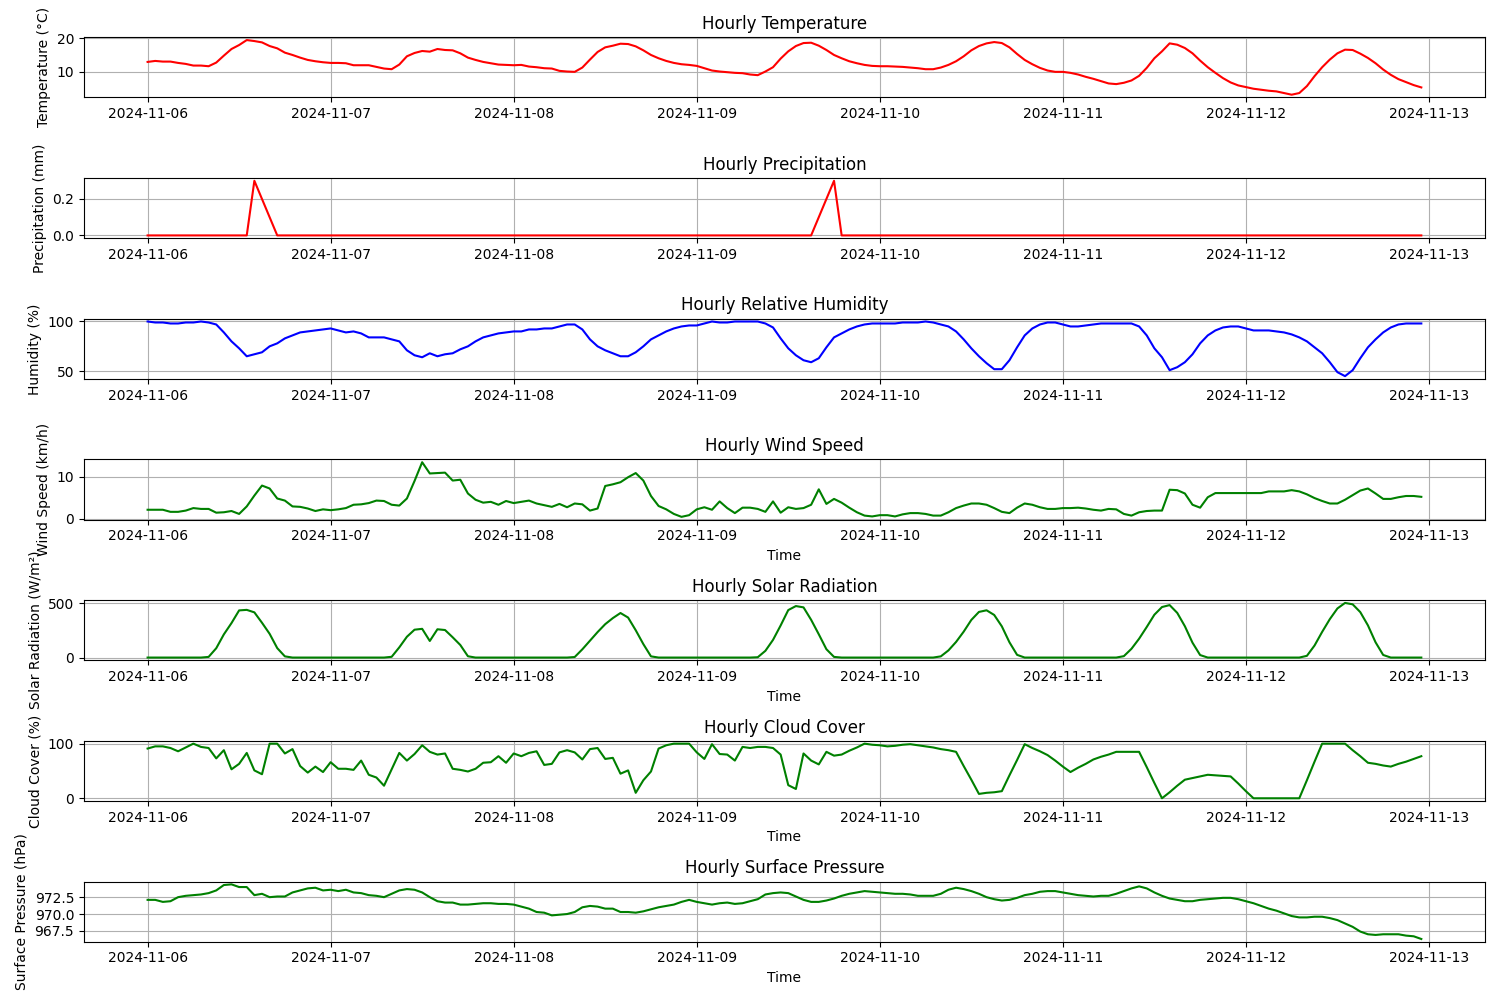
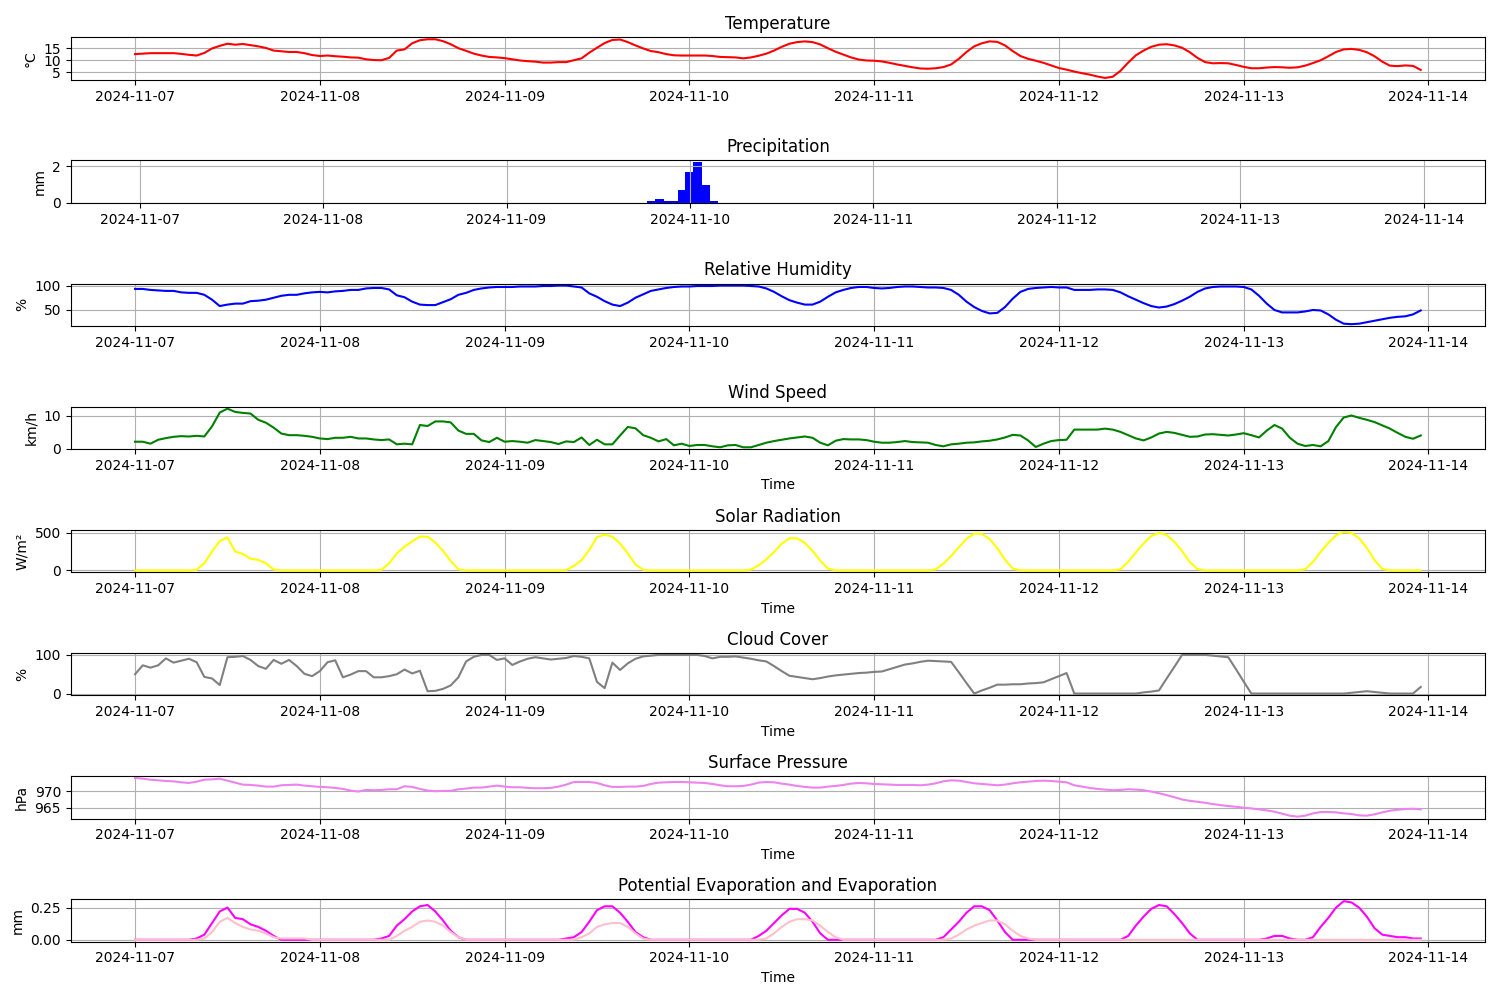
add etp

diff --git a/app.py b/app.py
@@ -10,14 +10,13 @@ import os
 
 app = Flask(__name__)
 
-# Function to fetch and plot weather data
-def fetch_and_plot():
-    # Step 1: Fetch data from the API
+def fetch():
+      # Step 1: Fetch data from the API
     url = "https://api.open-meteo.com/v1/forecast"
     params = {
         "latitude": 41.97,
         "longitude": 2.38,
-        "hourly": "temperature_2m,precipitation,relative_humidity_2m,wind_speed_10m,cloud_cover,surface_pressure,shortwave_radiation",
+        "hourly": "temperature_2m,precipitation,relative_humidity_2m,wind_speed_10m,cloud_cover,surface_pressure,shortwave_radiation,et0_fao_evapotranspiration,evapotranspiration",
         "timezone": "auto"
     }
     response = requests.get(url, params=params)
@@ -32,6 +31,8 @@ def fetch_and_plot():
     cloud_cover = data["hourly"]["cloud_cover"]
     surface_pressure = data["hourly"]["surface_pressure"]
     shortwave_radiation = data["hourly"]["shortwave_radiation"]
+    potential_evaporation = data["hourly"]["et0_fao_evapotranspiration"]
+    evaporation = data["hourly"]["evapotranspiration"]
     
     # Convert to pandas DataFrame
     df = pd.DataFrame({
@@ -42,36 +43,43 @@ def fetch_and_plot():
         "Wind Speed (km/h)": wind_speed,
         "Solar Radiation (W/m²)": shortwave_radiation,
         "Cloud Cover (%)": cloud_cover,
-        "Surface Pressure (hPa)": surface_pressure
+        "Surface Pressure (hPa)": surface_pressure,
+        "Potential Evaporation (mm)": potential_evaporation,
+        "Evaporation (mm)": evaporation
     })
     df.set_index("Time", inplace=True)
+    
+    return df
+
+# Function to fetch and plot weather data
+def plot_data(df):
 
     # Step 3: Plot each variable
     plt.figure(figsize=(15, 10))
 
     # Plot Temperature
-    plt.subplot(7, 1, 1)
+    plt.subplot(8, 1, 1)
     plt.plot(df.index, df["Temperature (°C)"], color="red")
     plt.title("Temperature")
     plt.ylabel("°C")
     plt.grid()
     
     # Plot Precipitation
-    plt.subplot(7, 1, 2)
-    plt.plot(df.index, df["Precipitation (mm)"], color="red")
+    plt.subplot(8, 1, 2)
+    plt.bar(df.index, df["Precipitation (mm)"], width=0.05, color="blue")
     plt.title("Precipitation")
     plt.ylabel("mm")
     plt.grid()
 
     # Plot Relative Humidity
-    plt.subplot(7, 1, 3)
+    plt.subplot(8, 1, 3)
     plt.plot(df.index, df["Relative Humidity (%)"], color="blue")
     plt.title("Relative Humidity")
     plt.ylabel("%")
     plt.grid()
 
     # Plot Wind Speed
-    plt.subplot(7, 1, 4)
+    plt.subplot(8, 1, 4)
     plt.plot(df.index, df["Wind Speed (km/h)"], color="green")
     plt.title("Wind Speed")
     plt.ylabel("km/h")
@@ -79,28 +87,44 @@ def fetch_and_plot():
     plt.grid()
     
     # Plot Solar Radiation
-    plt.subplot(7, 1, 5)
-    plt.plot(df.index, df["Solar Radiation (W/m²)"], color="green")
+    plt.subplot(8, 1, 5)
+    plt.plot(df.index, df["Solar Radiation (W/m²)"], color="yellow")
     plt.title("Solar Radiation")
     plt.ylabel("W/m²")
     plt.xlabel("Time")
     plt.grid()
     
     # Plot Cloud Cover
-    plt.subplot(7, 1, 6)
-    plt.plot(df.index, df["Cloud Cover (%)"], color="green")
+    plt.subplot(8, 1, 6)
+    plt.plot(df.index, df["Cloud Cover (%)"], color="grey")
     plt.title("Cloud Cover")
     plt.ylabel("%")
     plt.xlabel("Time")
     plt.grid()
     
     # Plot Surface Pressure (hPa)
-    plt.subplot(7, 1, 7)
-    plt.plot(df.index, df["Surface Pressure (hPa)"], color="green")
+    plt.subplot(8, 1, 7)
+    plt.plot(df.index, df["Surface Pressure (hPa)"], color="violet")
     plt.title("Surface Pressure")
     plt.ylabel("hPa")
     plt.xlabel("Time")
     plt.grid()
+    
+    # Plot Evaporations (mm)
+    plt.subplot(8, 1, 8)
+    plt.plot(df.index, df["Potential Evaporation (mm)"], color="magenta")
+    plt.plot(df.index, df["Evaporation (mm)"], color="pink")
+    plt.title("Potential Evaporation and Evaporation")
+    plt.ylabel("mm")
+    plt.xlabel("Time")
+    plt.grid()
+    
+    #plt.subplot(9, 1, 9)
+    #plt.plot(df.index, df["Evaporation (mm)"], color="pink")
+    #plt.title("Evaporation")
+    #plt.ylabel("mm")
+    #plt.xlabel("Time")
+    #plt.grid()
 
     # Save plot to static folder
     plt.tight_layout()
@@ -109,7 +133,8 @@ def fetch_and_plot():
     plt.close()
 
 #Run for the first time
-fetch_and_plot()
+df = fetch()
+plot_data(df)
 
 # Schedule the fetch_and_plot function to run every hour
 scheduler = BackgroundScheduler()
@@ -119,17 +144,17 @@ scheduler.start()
 # Route to display the plot
 @app.route("/")
 def index():
-    # Call the function initially to generate the plot
-    fetch_and_plot()
-    return render_template("index.html")
+  # Call the function initially to generate the plot
+  plot_data()
+return render_template("index.html")
 
 @app.teardown_appcontext
 def shutdown_scheduler(exception=None):
-    try:
-        if scheduler.running:
-            scheduler.shutdown()
-    except SchedulerNotRunningError:
-        pass
+  try:
+  if scheduler.running:
+  scheduler.shutdown()
+except SchedulerNotRunningError:
+  pass
 
 if __name__ == '__main__':
-    app.run(debug=True)
+  app.run(debug=True)
